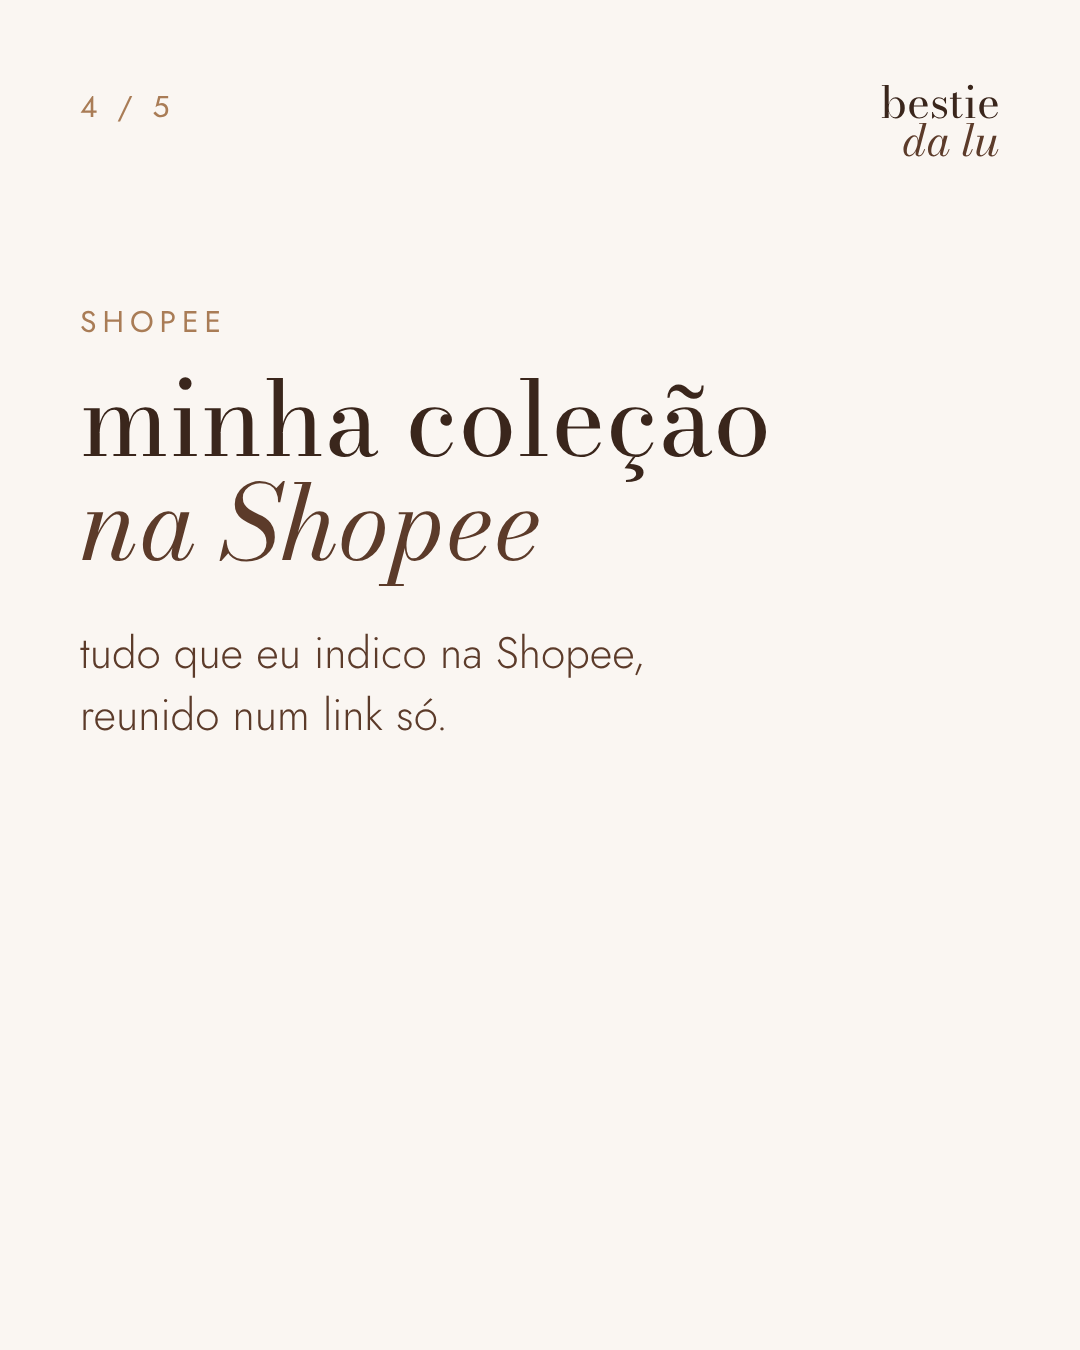
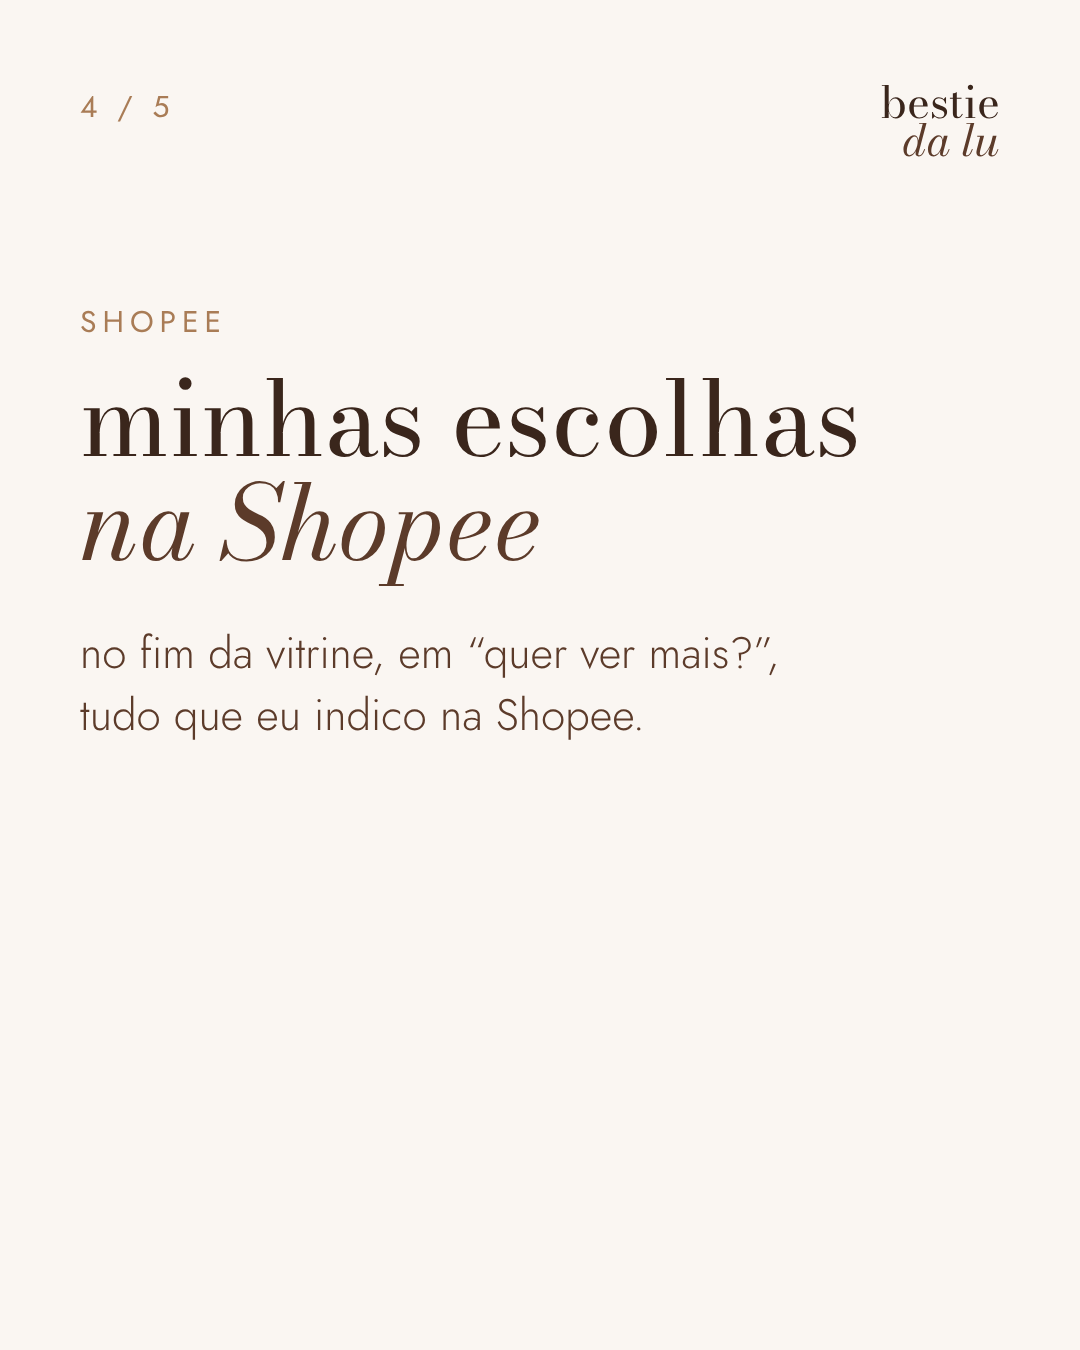
Vitrine: listas 'minhas escolhas' (Shein e Shopee) no fim, em 'quer ver mais?'; cupons atualizado
Claude-Session: https://claude.ai/code/session_01PUDA6xhTL8uMXs4sWE164U

Changed region(s): [[0.0611, 0.4667, 0.7028, 0.56], [0.3361, 0.28, 0.7944, 0.3733]]

diff --git a/index.html b/index.html
@@ -87,6 +87,9 @@
   .breve{font-size:11px;letter-spacing:.08em;color:var(--muted);white-space:nowrap}
   .vazio{font-size:14px;color:var(--muted);text-align:center;padding:20px 0}
 
+  .mais{margin-top:40px;display:flex;flex-direction:column;gap:6px}
+  .mais[hidden]{display:none}
+  .mais-t{font-family:var(--display);font-style:italic;font-size:22px;color:var(--deep);margin-bottom:6px}
   footer{margin-top:44px;text-align:center;font-size:12px;line-height:1.5;color:var(--muted)}
   footer .mini{font-family:var(--display);font-size:22px;line-height:.9;color:var(--deep);margin-bottom:10px}
   footer .mini i{color:var(--marrom)}
@@ -125,6 +128,11 @@
 
   <main id="conteudo"></main>
 
+  <section class="mais" id="mais" hidden>
+    <div class="mais-t">quer ver mais?</div>
+    <div id="maisLinks" style="display:contents"></div>
+  </section>
+
   <footer>
     <div class="mini">bestie<br><i>da lu</i></div>
     <p class="aviso-preco">Os preços são os que eu vi na loja e podem mudar com cupons, frete e estoque.<br>O valor final aparece no site da loja.</p>
@@ -140,7 +148,8 @@
    ========================================================= */
 /* código de pesquisa da Shein (deixe "" para esconder o quadro) */
 const CODIGO_SHEIN = "Z4NNW";
-/* link direto da lista "minhas escolhas" da Lu na Shein (se tiver, a faixa abre a lista em vez de copiar o código) */
+/* link direto da lista "minhas escolhas" da Lu na Shein: aparece no fim da vitrine, em "quer ver mais?".
+   Faixas da planilha (selo cupom) cujo título começa com "minhas escolhas" também vão para o fim. */
 const LINK_SHEIN = "https://br.shein.com/ark/5231?url_from=affiliate_koc_4496248285&ad_type=KOC&koc_id=4496248285&picks_delivery_id=5468015&campaign=picklist&landing_page_id=5231&language=pt-br&siteuid=br";
 const CUPONS = [];
 
@@ -283,8 +292,13 @@ async function carregar(){
     if (!r.ok) throw new Error("HTTP " + r.status);
     SECOES = montarSecoes(parseCSV(await r.text()));
     montarFiltros();
-    document.getElementById("cupons").innerHTML = CUPONS.filter(c => c.link).map(c =>
-      `<a class="codigo" href="${esc(c.link)}" target="_blank" rel="noopener sponsored"><span class="codigo-label">${esc(c.titulo)}</span><span class="codigo-btn"><span class="codigo-acao">ver</span>${seta}</span></a>`).join("");
+    const faixa = c => `<a class="codigo" href="${esc(c.link)}" target="_blank" rel="noopener sponsored"><span class="codigo-label">${esc(c.titulo)}</span><span class="codigo-btn"><span class="codigo-acao">ver</span>${seta}</span></a>`;
+    const ehLista = c => /^minhas escolhas/i.test(c.titulo.trim());
+    const comLink = CUPONS.filter(c => c.link);
+    document.getElementById("cupons").innerHTML = comLink.filter(c => !ehLista(c)).map(faixa).join("");
+    const listas = (LINK_SHEIN ? [{ titulo: "minhas escolhas na Shein", link: LINK_SHEIN }] : []).concat(comLink.filter(ehLista));
+    document.getElementById("maisLinks").innerHTML = listas.map(faixa).join("");
+    document.getElementById("mais").hidden = !listas.length;
     render("tudo");
     if (location.hash){ const el = document.getElementById(location.hash.slice(1)); if (el) el.scrollIntoView(); }
   } catch (e) {
@@ -294,11 +308,7 @@ async function carregar(){
 carregar();
 
 if (LINK_SHEIN) {
-  const box = document.getElementById("codigo");
-  const a = document.createElement("a");
-  a.className = "codigo"; a.id = "codigo"; a.href = LINK_SHEIN; a.target = "_blank"; a.rel = "noopener sponsored";
-  a.innerHTML = '<span class="codigo-label">minhas escolhas na Shein</span><span class="codigo-btn"><span class="codigo-acao">ver</span>' + seta + '</span>';
-  box.replaceWith(a);
+  /* a lista da Shein aparece no fim da vitrine ("quer ver mais?") */
 } else if (CODIGO_SHEIN) {
   document.getElementById("codigoValor").textContent = CODIGO_SHEIN;
   document.getElementById("codigo").hidden = false;

diff --git a/posts/index.html b/posts/index.html
@@ -179,11 +179,11 @@ salva esse post pra lembrar dos selos ✨
     legenda: `cupons da lu 🤍
 tudo que deixa a compra mais barata, num lugar só:
 
-🛍 minhas escolhas na Shein · toque em “ver” no topo da vitrine (ou busque Z4NNW no app)
+🛍 minhas escolhas na Shein (ou busque Z4NNW no app)
 ✨ 50% off na 1ª compra na Shein (para novas clientes)
-🧡 minha coleção na Shopee
+🧡 minhas escolhas na Shopee
 
-🔗 tudo na vitrine (link na bio)
+🔗 tudo na vitrine (link na bio) · as listas ficam no fim, em “quer ver mais?”
 cupons e descontos podem mudar ou acabar sem aviso da loja.
 
 #cupomshein #descontoshein #achadinhosshein #achadinhosshopee`
